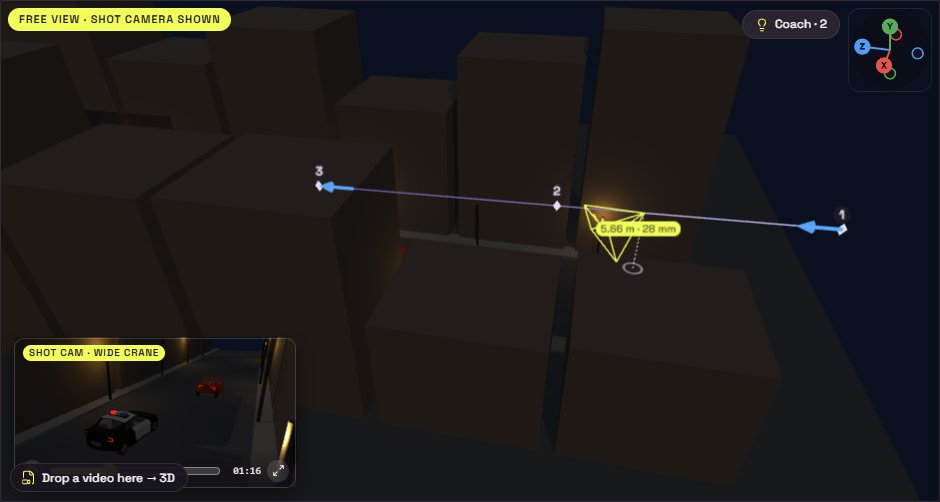
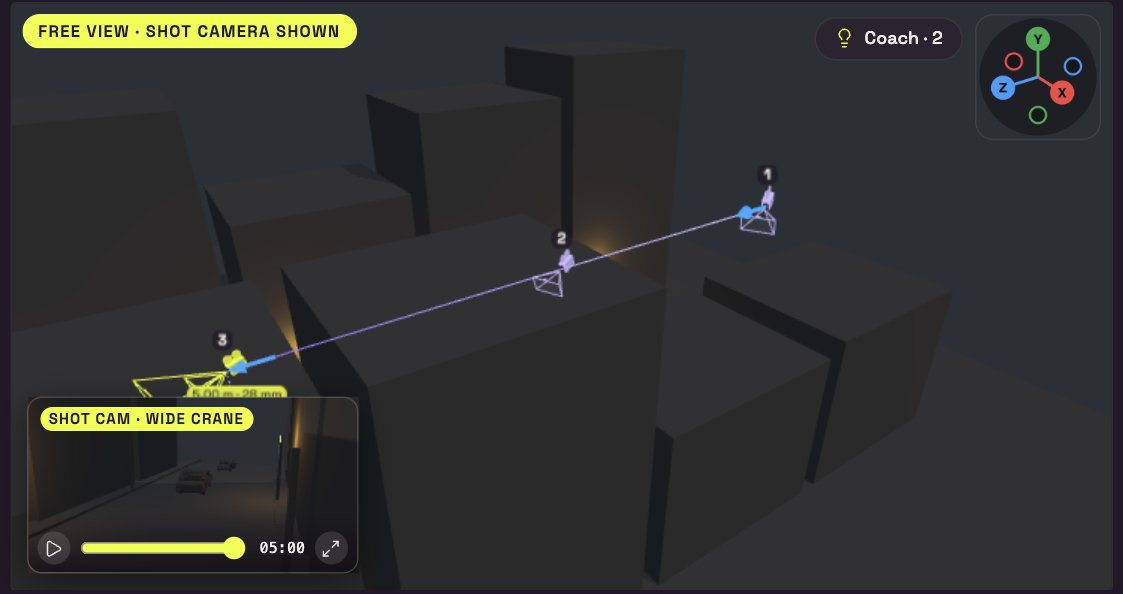
README media v3: keep main's app_mode.jpg and camera_keys.jpg for now
The re-shoots were weaker than the pictures they replaced: app_mode showed ComfyUI's empty App-mode intro with the
Soundstage panel squeezed at the right, and camera_keys came out smaller and darker with the 'Drop a video here'
chip covering the shot-cam inset (an App overlap, reported in the PR).

diff --git a/README.md b/README.md
@@ -291,7 +291,7 @@ Every character, location, wardrobe piece and prop from the breakdown gets a ref
 </tr>
 <tr>
 <td><img src="docs/media/camera_rigs.gif" alt="The same push-in on four rigs: free, dolly, jib, handheld"></td>
-<td><img src="docs/media/camera_keys.jpg" alt="A numbered camera at every camera key in the 3D stage, with the shot camera inset"></td>
+<td><img src="docs/media/camera_keys.jpg" alt="A numbered camera at every camera key in the 3D stage"></td>
 </tr>
 <tr>
 <td colspan="2" align="center"><img src="docs/media/in_the_car.gif" width="720" alt="Riding inside a car: the clay two-shot through the windshield and the back-seat angle (left) next to the LTX-2.5 draft (right), the same two people in the front seats"></td>
